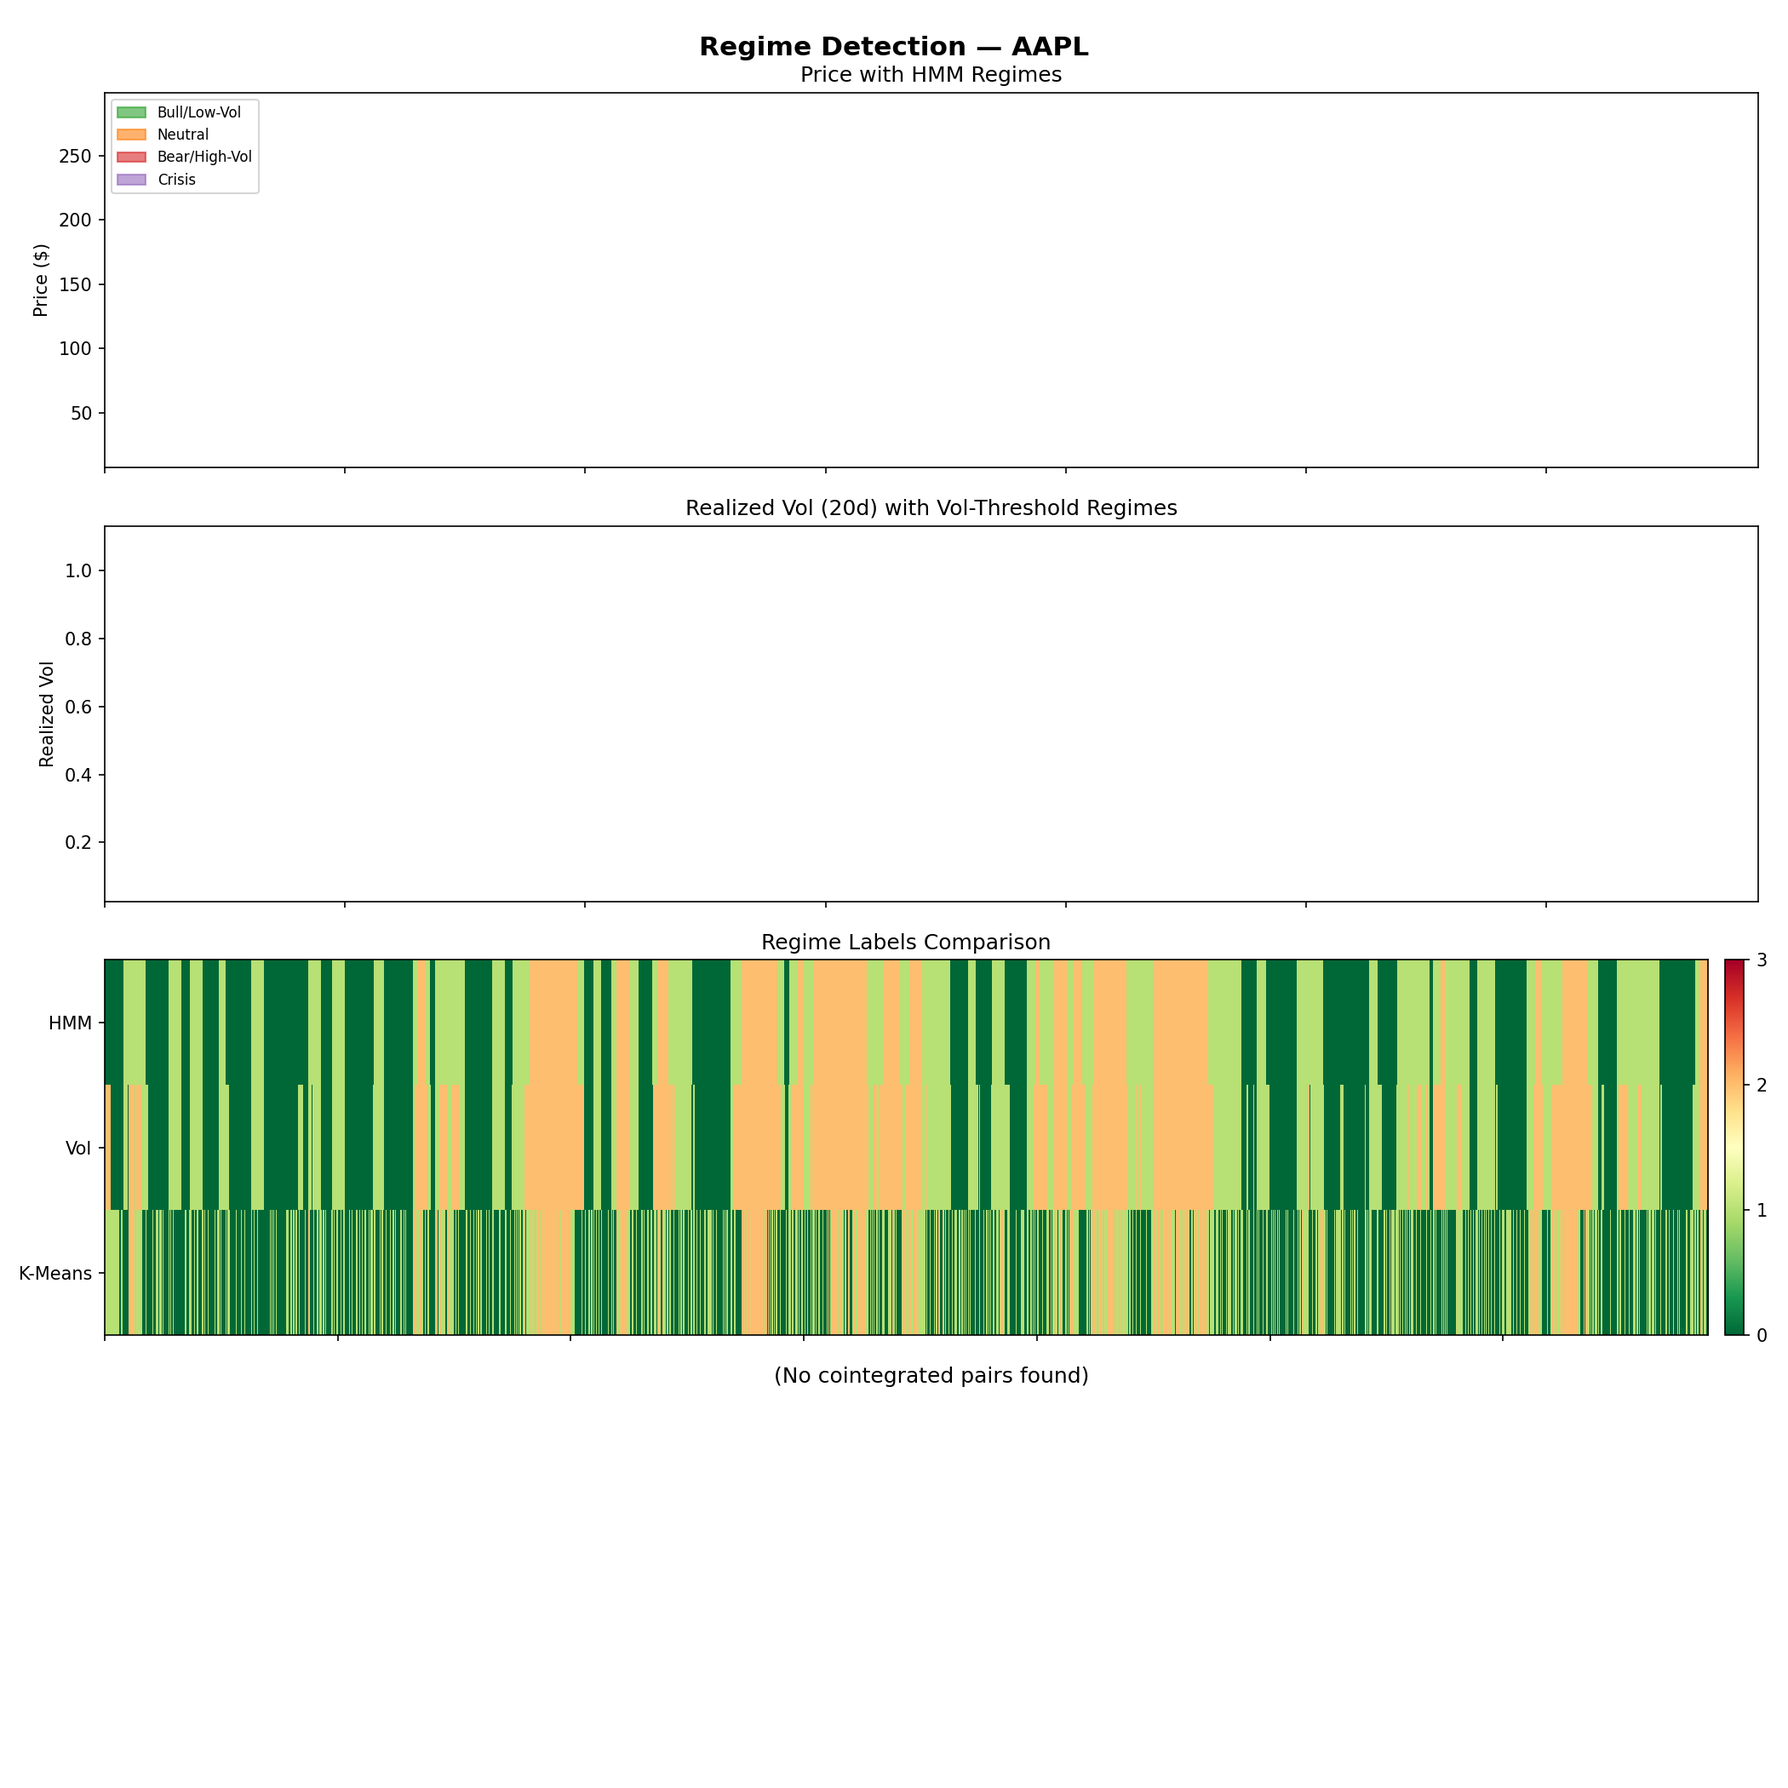
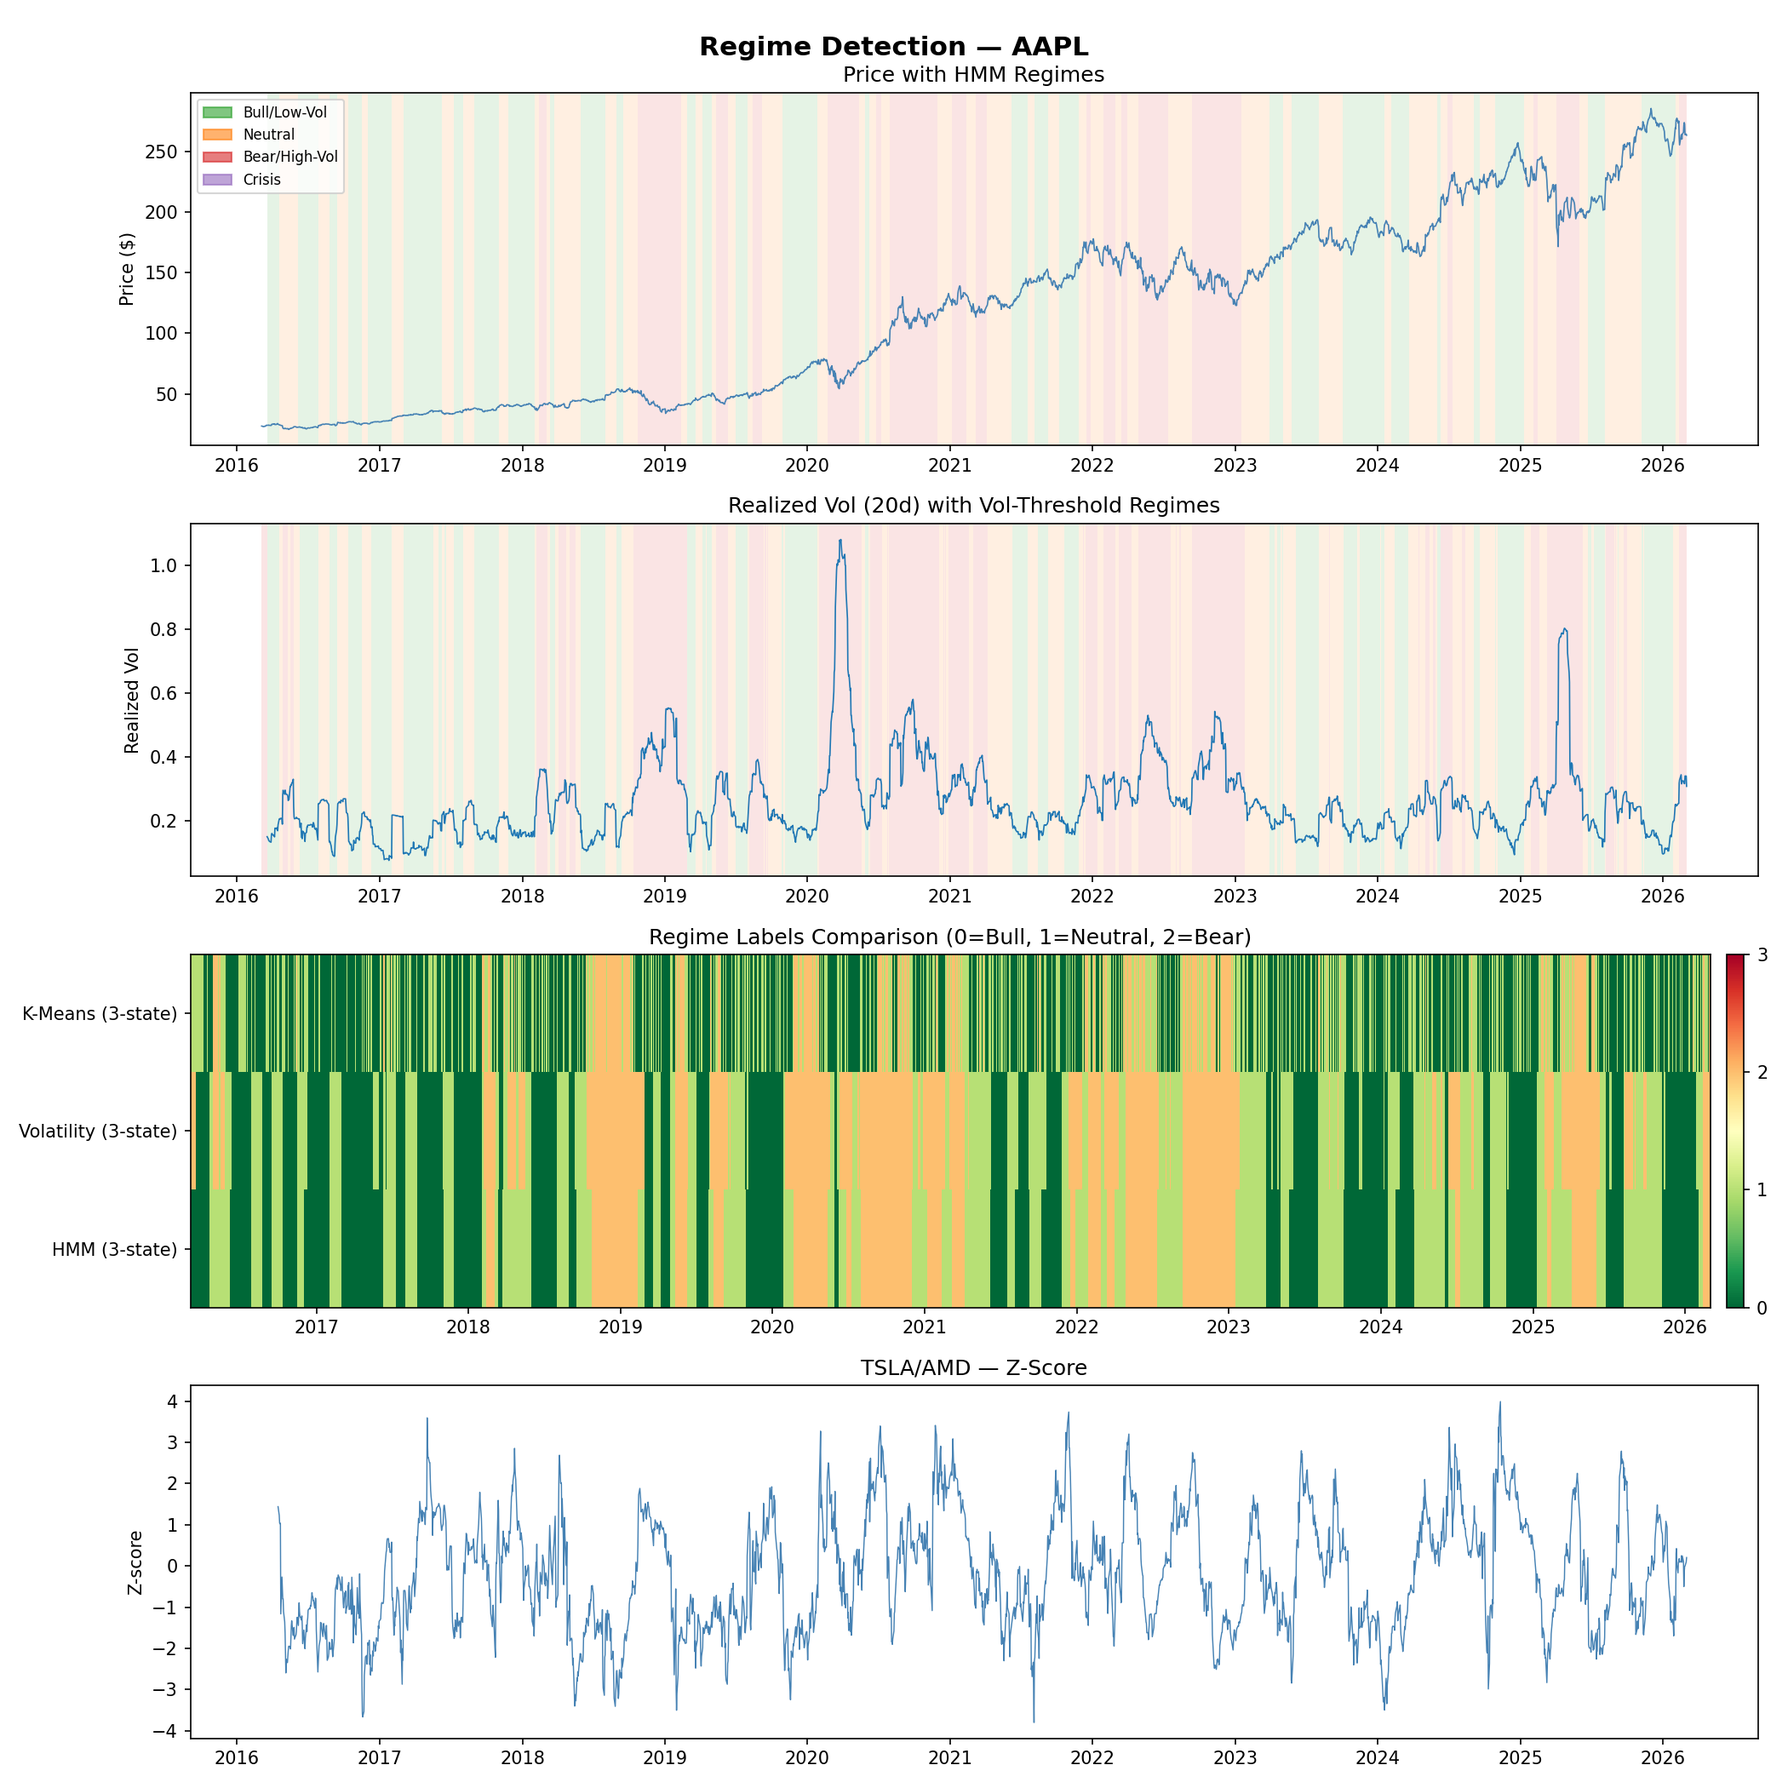
Updated README and demo code

diff --git a/src/regime/demo_regime.py b/src/regime/demo_regime.py
@@ -42,8 +42,11 @@ DEMO_TICKERS = ["AAPL", "MSFT", "GOOGL", "AMZN", "NVDA", "META",
 REGIME_TICKER = "AAPL"     # use AAPL to showcase regime detection
 PERIOD        = "10y"
 INTERVAL      = "1d"
-PLOTS_DIR     = os.path.join(os.path.dirname(os.path.dirname(os.path.abspath(__file__))),
-                              "..", "data", "plots")
+PLOTS_DIR     = os.path.join(
+    os.path.abspath(os.path.join(os.path.dirname(__file__), "..", "..")),
+    "data",
+    "plots",
+)
 
 REGIME_COLOR  = {0: "#2ca02c", 1: "#ff7f0e", 2: "#d62728", 3: "#9467bd"}
 REGIME_NAME   = {0: "Bull/Low-Vol", 1: "Neutral", 2: "Bear/High-Vol", 3: "Crisis"}
@@ -177,49 +180,124 @@ def run_pairs_trading(features: dict) -> dict:
 # 4. Plots
 # ──────────────────────────────────────────────────────────────────────────────
 
-def plot_regimes(features, results):
+def plot_regimes(features, results, pairs_result=None):
     os.makedirs(PLOTS_DIR, exist_ok=True)
     feat_df = features[REGIME_TICKER]
-    price_col = "adj_close" if "adj_close" in feat_df.columns else "close"
+    # robust price column selection
+    if "adj_close" in feat_df.columns:
+        price_col = "adj_close"
+    elif "close" in feat_df.columns:
+        price_col = "close"
+    else:
+        price_col = feat_df.columns[0]
 
-    fig, axes = plt.subplots(4, 1, figsize=(14, 14), sharex=True)
+    # Rows 0,1,3 share x-axis (DatetimeIndex).
+    # Row 2 (heatmap) is NOT shared — imshow uses integer pixel coords which
+    # would hijack the shared date axis and blank out the other plots.
+    fig, axes = plt.subplots(4, 1, figsize=(14, 14))
     fig.suptitle(f"Regime Detection — {REGIME_TICKER}", fontsize=15, fontweight="bold")
+    # manually link only the date-indexed axes
+    for ax in [axes[1], axes[3]]:
+        ax.sharex(axes[0])
 
     # Price
     ax_price = axes[0]
-    ax_price.plot(feat_df.index, feat_df[price_col], lw=0.8, color="steelblue")
+    ax_price.plot(feat_df.index, feat_df[price_col].values, lw=0.8, color="steelblue")
     ax_price.set_ylabel("Price ($)")
     ax_price.set_title("Price with HMM Regimes")
-    background_regimes(ax_price, results["HMM (3-state)"]["labels"])
+    try:
+        background_regimes(ax_price, results["HMM (3-state)"]["labels"])
+    except Exception:
+        pass
     patches = [mpatches.Patch(color=REGIME_COLOR[r], label=REGIME_NAME[r], alpha=0.6)
                for r in sorted(REGIME_COLOR)]
     ax_price.legend(handles=patches, loc="upper left", fontsize=8)
 
     # Realized vol comparison
     ax_rv = axes[1]
-    ax_rv.plot(feat_df.index, feat_df["rv_20"], lw=0.8, label="rv_20")
+    if "rv_20" in feat_df.columns:
+        ax_rv.plot(feat_df.index, feat_df["rv_20"].values, lw=0.8, label="rv_20")
     ax_rv.set_ylabel("Realized Vol")
     ax_rv.set_title("Realized Vol (20d) with Vol-Threshold Regimes")
-    background_regimes(ax_rv, results["Volatility (3-state)"]["labels"])
+    try:
+        background_regimes(ax_rv, results["Volatility (3-state)"]["labels"])
+    except Exception:
+        pass
 
-    # Regime colours (all 3 detectors as heatmap rows)
+    # Regime comparison heatmap — use pcolormesh with dates on x-axis
     ax_cmp = axes[2]
     names = list(results.keys())
-    data = np.vstack([results[n]["labels"].reindex(feat_df.index).ffill().bfill().values
-                      for n in names])
-    im = ax_cmp.imshow(data, aspect="auto", cmap="RdYlGn_r",
-                       extent=[0, data.shape[1], 0, len(names)],
-                       vmin=0, vmax=3, interpolation="nearest")
-    ax_cmp.set_yticks([0.5, 1.5, 2.5])
-    ax_cmp.set_yticklabels(["K-Means", "Vol", "HMM"])
-    ax_cmp.set_title("Regime Labels Comparison")
-    fig.colorbar(im, ax=ax_cmp, orientation="vertical", pad=0.01, fraction=0.02,
-                 ticks=[0, 1, 2, 3])
+    rows = []
+    for n in names:
+        lab_raw = results[n]["labels"]
+        if isinstance(lab_raw, pd.Series):
+            lab = lab_raw.reindex(feat_df.index).ffill().bfill()
+        else:
+            try:
+                lab = pd.Series(lab_raw, index=feat_df.index).ffill().bfill()
+            except Exception:
+                lab = pd.Series([0] * len(feat_df), index=feat_df.index)
+        rows.append(lab.values)
+    if rows:
+        data = np.vstack(rows).astype(float)
+        # pcolormesh accepts datetime x-axis natively — no integer pixel coords
+        x_edges = np.concatenate([feat_df.index, [feat_df.index[-1] + pd.Timedelta(days=1)]])
+        y_edges = np.arange(len(names) + 1)
+        mesh = ax_cmp.pcolormesh(x_edges, y_edges, data, cmap="RdYlGn_r",
+                                 vmin=0, vmax=3, shading="flat")
+        ax_cmp.set_yticks(np.arange(0.5, len(names), 1))
+        ax_cmp.set_yticklabels(names)
+        ax_cmp.set_title("Regime Labels Comparison (0=Bull, 1=Neutral, 2=Bear)")
+        fig.colorbar(mesh, ax=ax_cmp, orientation="vertical", pad=0.01, fraction=0.02,
+                     ticks=[0, 1, 2, 3])
+    else:
+        ax_cmp.text(0.5, 0.5, "No regime labels available", ha="center", va="center")
 
     # Z-score plot for top pair (if any)
     ax_z = axes[3]
-    ax_z.set_title("(No cointegrated pairs found)" )
-    ax_z.axis("off")
+    # build a wide price matrix from features
+    frames = []
+    for t, fdf in features.items():
+        pc = "adj_close" if "adj_close" in fdf.columns else ("close" if "close" in fdf.columns else fdf.columns[0])
+        s = fdf[pc].rename(t)
+        s.index = pd.to_datetime(fdf["Date"]).dt.tz_localize(None) if "Date" in fdf.columns else s.index
+        frames.append(s)
+    if frames:
+        price_matrix = pd.concat(frames, axis=1).sort_index()
+    else:
+        price_matrix = None
+
+    plotted = False
+    if pairs_result is not None:
+        # prefer signals from run_pairs_trading if available
+        traded = pairs_result.get("traded") if isinstance(pairs_result, dict) else None
+        if traded:
+            first = next(iter(traded.items()))
+            pair_name, data = first
+            sig = data.get("signals")
+            if sig is not None and not sig.empty:
+                ax_z.plot(sig.index, sig["zscore"], lw=0.7, color="steelblue")
+                ax_z.set_title(f"{pair_name} — Z-Score")
+                ax_z.set_ylabel("Z-score")
+                plotted = True
+
+    if not plotted and pairs_result is not None and price_matrix is not None:
+        # fallback: plot the top cointegrated pair if available
+        coin = pairs_result.get("cointegrated") if isinstance(pairs_result, dict) else None
+        if coin is not None and not coin.empty:
+            row = coin.iloc[0]
+            from strategy.pairs_trading import PairsTradingStrategy
+            strat = PairsTradingStrategy(zscore_window=60)
+            spread = strat.compute_spread(price_matrix, row["ticker1"], row["ticker2"], float(row["hedge_ratio"]))
+            z = strat.compute_zscore(spread)
+            ax_z.plot(z.index, z.values, lw=0.7, color="steelblue")
+            ax_z.set_title(f"{row['ticker1']}/{row['ticker2']} — Z-Score")
+            ax_z.set_ylabel("Z-score")
+            plotted = True
+
+    if not plotted:
+        ax_z.set_title("(No cointegrated pairs found)")
+        ax_z.axis("off")
 
     plt.tight_layout()
     out = os.path.join(PLOTS_DIR, "regime_detection.png")
@@ -297,7 +375,7 @@ def main():
 
     # Plots
     print("\n[Plots] Generating…")
-    plot_regimes(features, regime_results)
+    plot_regimes(features, regime_results, pairs_result=pairs_result)
     plot_pairs(pairs_result)
 
     print("\nDone!")

diff --git a/README.md b/README.md
@@ -1,143 +1,81 @@
 # Regime-Adaptive Statistical Arbitrage Platform
 
-A sophisticated trading platform that detects market regimes, identifies statistical arbitrage opportunities, and adapts strategies based on market conditions.
+A working prototype that detects market regimes, finds cointegrated pairs,
+and runs a regime-aware pairs trading backtest with realistic execution costs.
 
-## Features
+## Highlights (what works today)
 
-- **Market Regime Detection**: Automatically identifies different market states (bull, bear, high volatility, low volatility)
-- **Statistical Arbitrage**: Finds and exploits mean-reversion and cointegration opportunities
-- **Adaptive Strategies**: Adjusts trading parameters based on detected regimes
-- **Realistic Backtesting**: Simulates trades with realistic execution costs and slippage
-- **Analytics & Visualization**: Comprehensive performance metrics and visual insights
-- **Multi-Source Data**: FactSet (primary) with yfinance fallback for flexibility
+- Data ingestion: `yfinance` client with caching (used as the default data source).
+- Feature pipeline: per-ticker feature extraction (`ret`, `logret`, `rv_20`, `mom`, z-scores).
+- Regime detection: `HMMRegimeDetector`, `VolatilityRegimeDetector`, `ClusteringRegimeDetector`.
+- Pair selection: Engle–Granger cointegration scanner + half-life filter.
+- Strategy: rolling z-score pairs trading signals with entry/exit/stop rules.
+- Backtester: event-driven engine with `Market/Signal/Order/Fill` events,
+  simulated execution (half-spread + slippage + commission), portfolio accounting, and reporting.
 
-## Project Structure
+Plots and demo scripts are included to reproduce results quickly.
+
+## Project Layout
 
 ```
 regime-adaptive-stat-arb/
 ├── src/
-│   ├── data/              # Data fetching and management
-│   │   ├── factset_client.py       # FactSet API client
-│   │   ├── yfinance_client.py      # Yahoo Finance client (fallback)
-│   │   ├── data_client_factory.py  # Auto-switching factory
-│   │   ├── universe.py             # Stock universe definitions
-│   │   └── test_*.py               # Test scripts
-│   ├── regime/            # Regime detection algorithms
-│   ├── strategy/          # Trading strategies
-│   ├── backtest/          # Backtesting engine
-│   ├── risk/              # Risk management
-│   ├── analytics/         # Performance analytics
-│   └── visualization/     # Charts and dashboards
-├── data/                  # Cached data storage
-├── .env.example           # Environment variable template
-├── requirements.txt       # Python dependencies
+│   ├── data/          # FactSet (dev) + yfinance client, data factory, universe
+│   ├── features/      # featurization utilities
+│   ├── regime/        # HMM / volatility / clustering detectors
+│   ├── strategy/      # pairs trading logic + pair selector
+│   ├── backtest/      # event-driven backtester (execution, portfolio, engine)
+│   └── ...
+├── data/               # cached OHLCV + generated plots
+├── requirements.txt    # Python dependencies
 └── README.md
 ```
 
-## Setup
+## Quickstart (run from the project root)
 
-### 1. Clone and Install Dependencies
+1) Activate the project's virtualenv and install deps:
 
 ```bash
+source .venv/bin/activate
 pip install -r requirements.txt
 ```
 
-### 2. Configure API Keys
-
-Copy the example environment file and add your FactSet API key:
-
-```bash
-cp .env.example .env
-# Edit .env and add your FACTSET_API_KEY
-```
-
-**Note**: If you don't have a FactSet API key, the platform automatically falls back to yfinance (free).
-
-### 3. Test Data Clients
+2) Run the demo (feature extraction → regime detectors → pairs scan → plots):
 
 ```bash
 cd src
-python data/test_factset.py    # Test FactSet + factory pattern
-python data/test_client.py     # Test yfinance fallback
+python -m regime.demo_regime
+# outputs: data/plots/regime_detection.png and data/plots/pairs_trading.png
 ```
 
-## Data Sources
+3) Run the full backtest (train/test split, in-sample pair selection, OOS backtest):
 
-The platform supports multiple data sources with automatic fallback:
-
-- **Primary**: FactSet Prices API - Institutional-grade OHLCV + adjusted close
-- **Fallback**: Yahoo Finance (via yfinance) - Free historical daily OHLCV
-- **Universe**: Top 200 most liquid US equities by average daily volume
-- **History**: 10 years of daily data (configurable)
-
-## Usage
-
-### Auto-Select Data Source (Recommended)
-
-The factory automatically uses FactSet if available, otherwise falls back to yfinance:
-
-```python
-from src.data.data_client_factory import DataClientFactory
-
-# Auto-detect best available source
-client = DataClientFactory.create(source="auto", cache_dir="data/cache")
-df = client.fetch_ticker("AAPL", period="10y")
+```bash
+cd src
+python -m backtest.run_backtest
+# outputs: data/plots/backtest_results.png and console performance summary
 ```
 
-### FactSet Client (Explicit)
+Notes:
+- Scripts should be run from `src/` so module imports resolve correctly.
+- Cached raw OHLCV and computed features are stored under `data/`.
 
-```python
-from src.data.factset_client import FactSetClient
+## Current Roadmap
 
-client = FactSetClient(cache_dir="data/cache")
-df = client.fetch_ticker("AAPL", period="10y")
+- [x] Data ingestion (`yfinance` fallback)
+- [x] Universe definition (200 tickers)
+- [x] Feature pipeline
+- [x] Regime detection (HMM, volatility, clustering)
+- [x] Pair selection (cointegration + half-life)
+- [x] Pairs trading strategy (z-score signals)
+- [x] Event-driven backtester with realistic costs
+- [ ] Risk manager (position sizing, leverage limits)
+- [ ] Periodic pair re-selection and productionization
+- [ ] Analytics dashboard and richer visuals
+- [ ] Unit tests, CI, and packaging
 
-# Adjusted close is included
-print(df[['Date', 'close', 'adj_close']].head())
-```
+## Next steps (recommended)
 
-### YFinance Client (Fallback)
-
-```python
-from src.data.yfinance_client import YFinanceClient
-
-client = YFinanceClient(cache_dir="data/cache")
-df = client.fetch_ticker("AAPL", period="10y")
-```
-
-### Fetch Multiple Tickers
-
-```python
-from src.data.universe import TOP_200_LIQUID_US_EQUITIES
-
-client = DataClientFactory.create(cache_dir="data/cache")
-
-# Fetch all 200 stocks
-df = client.fetch_bulk(
-    tickers=TOP_200_LIQUID_US_EQUITIES,
-    period="10y",
-    show_progress=True
-)
-```
-
-### Get Sector-Specific Data
-
-```python
-from src.data.universe import get_sector_tickers
-
-tech_stocks = get_sector_tickers("Technology")
-df = client.fetch_bulk(tech_stocks, period="5y")
-```
-
-## Roadmap
-
-- [x] Data ingestion from FactSet & Yahoo Finance
-- [x] Stock universe definition (200 liquid US equities)
-- [x] Data client factory with automatic fallback
-- [ ] Regime detection algorithms (HMM, clustering, volatility-based)
-- [ ] Pairs trading strategy
-- [ ] Cointegration-based stat-arb
-- [ ] Backtesting engine with realistic costs
-- [ ] Risk management module
-- [ ] Performance analytics
-- [ ] Web dashboard for visualization
+1. Implement a risk manager that enforces max gross leverage and per-pair sizing per regime.
+2. Add rolling pair re-selection (e.g., monthly/quarterly) to reduce OOS breakdowns.
+3. Reduce execution friction assumptions (lower commission/slippage) when benchmarking realistic broker fees.
